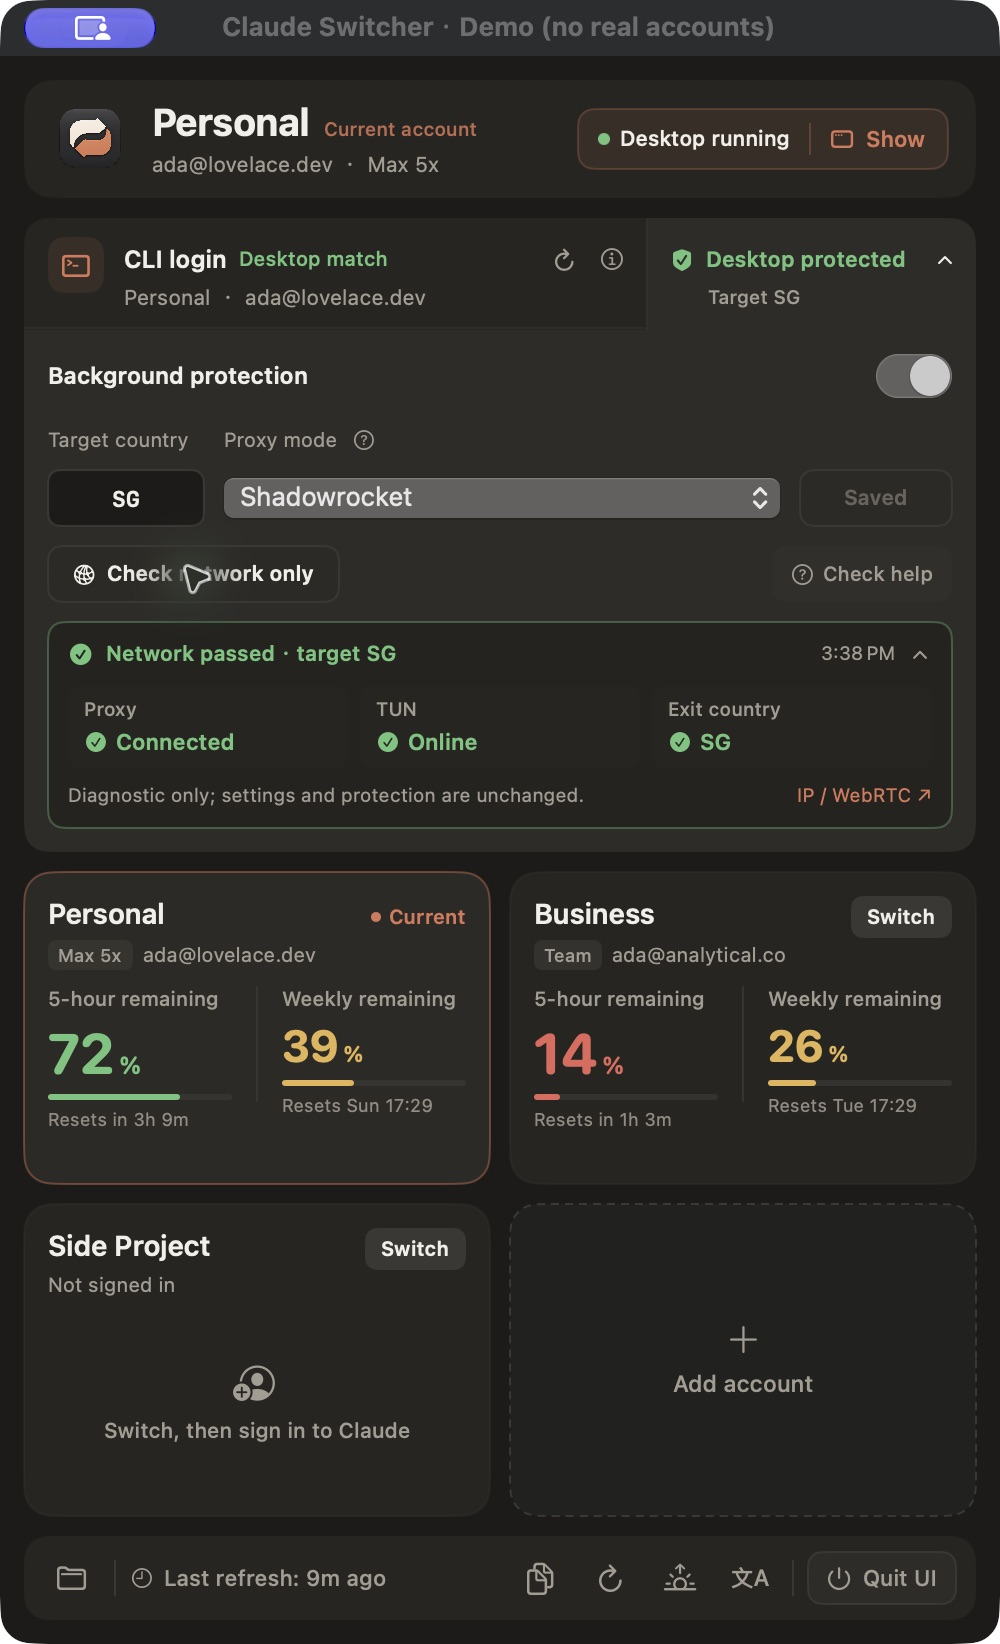
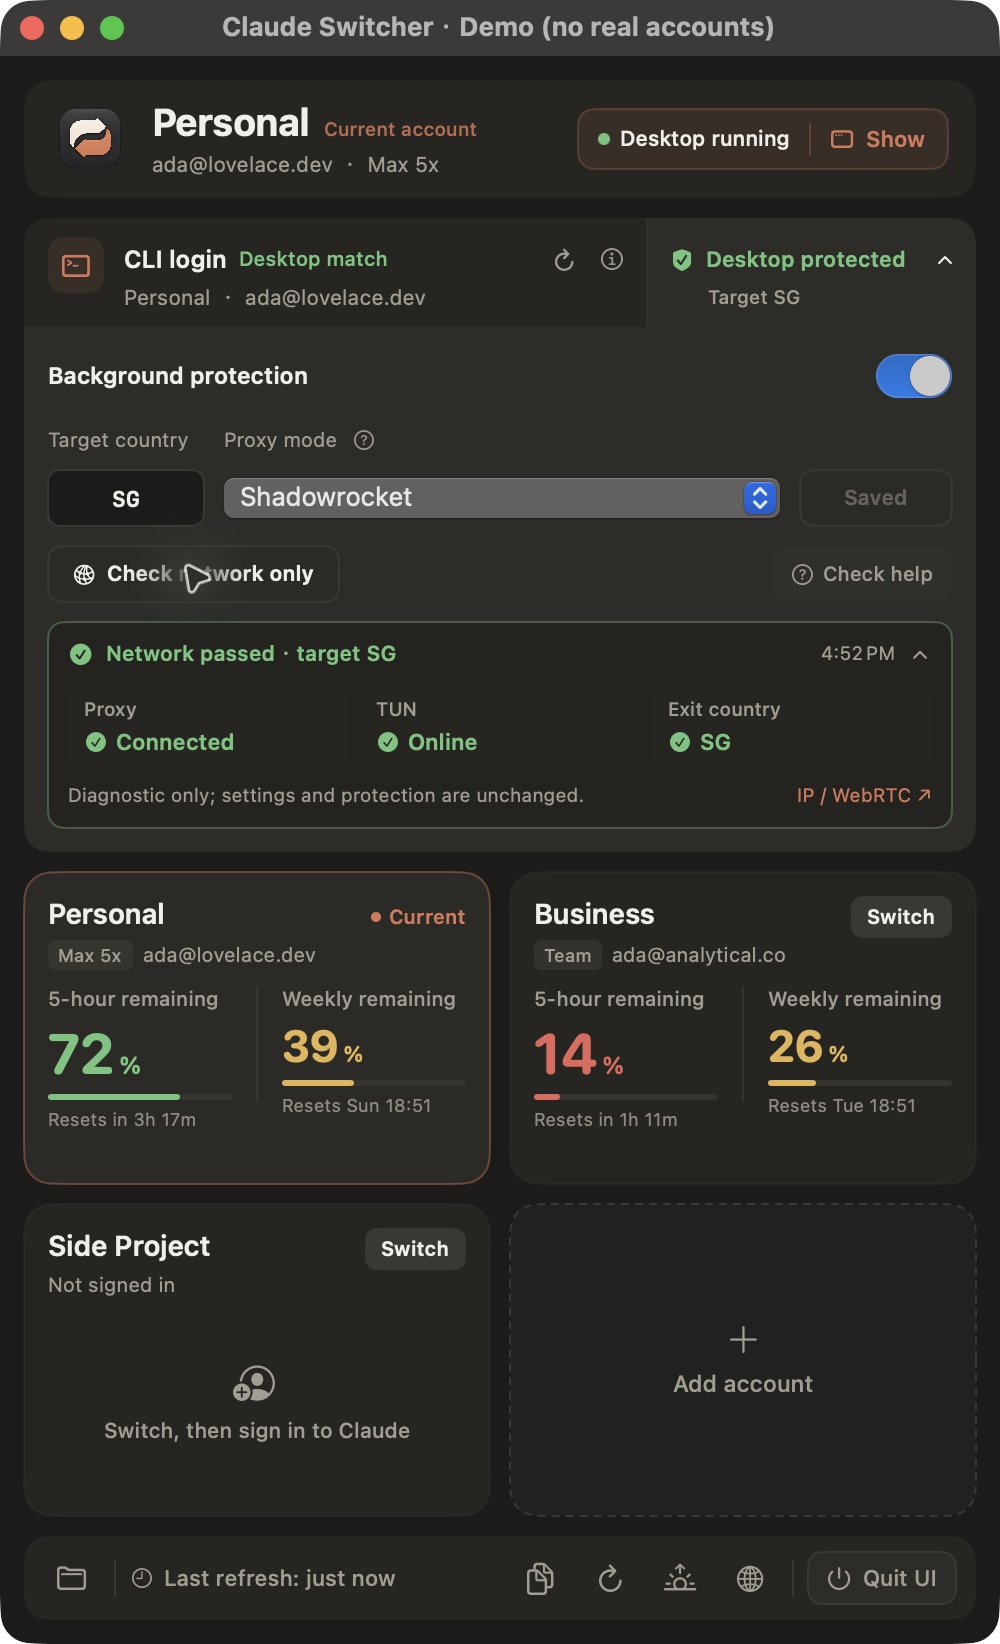
Prepare 1.3.1 with global language and consistent session copying

diff --git a/README.en.md b/README.en.md
@@ -14,16 +14,16 @@ Accounts, usage, sessions and network checks meet in one place.
 [![License](https://img.shields.io/github/license/liuquanqing/claude-switcher)](LICENSE)
 [![macOS checks](https://github.com/liuquanqing/claude-switcher/actions/workflows/ci.yml/badge.svg)](https://github.com/liuquanqing/claude-switcher/actions/workflows/ci.yml)
 
-[![Download macOS DMG](https://img.shields.io/badge/macOS-Download_DMG-C66B4E?style=for-the-badge&logo=apple&logoColor=white)](https://github.com/liuquanqing/claude-switcher/releases/download/v1.3.0/ClaudeSwitcher-1.3.0-arm64.dmg)
+[![Download macOS DMG](https://img.shields.io/badge/macOS-Download_DMG-C66B4E?style=for-the-badge&logo=apple&logoColor=white)](https://github.com/liuquanqing/claude-switcher/releases/download/v1.3.1/ClaudeSwitcher-1.3.1-arm64.dmg)
 
-**1.3.0** · Apple Silicon · macOS 13+
+**1.3.1** · Apple Silicon · macOS 13+
 
 [Download](#download) · [Features](#features) · [Quick start](#quick-start) · [Scope](#scope) · [中文](README.md)
 
 </div>
 
 <p align="center">
-  <img src="docs/images/main.png" width="820" alt="Claude Switcher main panel">
+  <img src="docs/images/main-en.png" width="820" alt="Claude Switcher main panel">
 </p>
 
 > Claude Switcher is an unofficial community project and is not affiliated with Anthropic.<br>
@@ -43,7 +43,7 @@ Claude Switcher keeps that work in the menu bar: see the current account, check 
 | **Desktop + CLI** | Synchronize the saved default OAuth login used by Claude Code. |
 | **Preflight** | Inspect the proxy, TUN interface, Claude domains and expected region before changing accounts. |
 | **Background guard** | Observe explicitly confirmed subscription desktops while the panel is closed. |
-| **Session import** | Import, append, back up, undo and restore supported local desktop session indexes. |
+| **Session copying** | Copy, update, back up, undo and restore supported local desktop session indexes. |
 | **Config awareness** | Detect Magpie and CC Switch configuration sources without taking over their secrets or exit flow. |
 | **Usage at a glance** | Show account usage windows and reset times without adding another dashboard. |
 
@@ -62,30 +62,32 @@ Known failures, unknown states and unresolved conflicts stop the operation befor
 
 ## Screens
 
+Use the globe in the footer to switch the entire app between Chinese and English. Account names, session content, and paths stay as they are.
+
 <table>
 <tr>
 <td align="center" width="50%">
-<img src="docs/images/main.png" alt="Accounts and usage" width="420"><br>
-Accounts and usage
+<img src="docs/images/main-en.png" alt="English main panel" width="420"><br>
+English
 </td>
 <td align="center" width="50%">
-<img src="docs/images/settings.png" alt="Protection settings" width="420"><br>
-Network and protection
+<img src="docs/images/main.png" alt="Chinese main panel" width="420"><br>
+中文
 </td>
 </tr>
 </table>
 
-All account details in these screenshots are fictional.
+All account details in these screenshots are fictional. See [bilingual protection and copy-flow validation](docs/GLOBAL-LANGUAGE.md#验证记录).
 
 ## Download
 
-Version 1.3.0 includes the latest API manager detection and CLI status refinements. The app is now named **Claude Switcher**, without the candidate suffix. See [release notes](docs/releases/1.3.0.md).
+Version 1.3.1 brings app-wide Chinese / English, a consistent Copy sessions flow, and clearer copy results. See [release notes](docs/releases/1.3.1.md).
 
-**[Download Claude Switcher 1.3.0 · macOS DMG](https://github.com/liuquanqing/claude-switcher/releases/download/v1.3.0/ClaudeSwitcher-1.3.0-arm64.dmg)**
+**[Download Claude Switcher 1.3.1 · macOS DMG](https://github.com/liuquanqing/claude-switcher/releases/download/v1.3.1/ClaudeSwitcher-1.3.1-arm64.dmg)**
 
 For **Apple Silicon (M1 or newer) · macOS 13+**. Open the DMG and drag `Claude Switcher.app` to Applications.
 
-[Release notes](https://github.com/liuquanqing/claude-switcher/releases/tag/v1.3.0) · [SHA256 checksums](https://github.com/liuquanqing/claude-switcher/releases/download/v1.3.0/SHA256SUMS) · [All releases](https://github.com/liuquanqing/claude-switcher/releases)
+[Release notes](https://github.com/liuquanqing/claude-switcher/releases/tag/v1.3.1) · [SHA256 checksums](https://github.com/liuquanqing/claude-switcher/releases/download/v1.3.1/SHA256SUMS) · [All releases](https://github.com/liuquanqing/claude-switcher/releases)
 
 The build uses an ad-hoc local signature and is not notarized by Apple. See [the installation guide](docs/INSTALL.md).
 
@@ -104,7 +106,7 @@ Keep only one Claude account manager active. This release and the original Claud
 <details>
 <summary><strong>Does switching an account rewrite cloud conversations?</strong></summary>
 
-No. Claude Switcher changes the active account by rotating local Claude Desktop data directories. Supported local session imports remain local indexes, not a cloud migration.
+No. Claude Switcher changes the active account by rotating local Claude Desktop data directories. Supported local session copies remain local indexes, not a cloud migration.
 
 </details>
 
@@ -135,12 +137,12 @@ This release operates as a **switch gate and periodic observer**, alongside host
 
 - Only the saved default CLI login is synchronized; running tasks are not guaranteed to change identity immediately.
 - API-mode and unknown-mode desktops are not enrolled automatically.
-- Session import supports adapted local desktop indexes, not complete cloud chat migration.
+- Session copying supports adapted local desktop indexes, not complete cloud chat migration.
 - The background guard checks approximately every 10 seconds, so it cannot observe every event between checks.
 
 ## Validation
 
-The public source currently passes 176 Core tests, 121 isolated controller checks, and a release build plus signature verification.
+The public source currently passes 176 Core tests, 147 isolated controller checks, and a release build plus signature verification.
 
 See [VALIDATION.md](docs/VALIDATION.md) and the [GitHub Actions workflow](https://github.com/liuquanqing/claude-switcher/actions/workflows/ci.yml).
 

diff --git a/docs/VALIDATION.md b/docs/VALIDATION.md
@@ -1,6 +1,6 @@
 # 验证范围
 
-本文说明正式版本 `v1.3.0` 已经用什么方式测过、测到了哪里，以及**还没有验证过什么**。通过测试不代表在所有环境下都安全或都能恢复。
+本文说明正式版本 `v1.3.1` 已经用什么方式测过、测到了哪里，以及**还没有验证过什么**。通过测试不代表在所有环境下都安全或都能恢复。
 
 ## 测试原则
 
@@ -13,9 +13,9 @@
 | 套件 | 运行方式 | 公开发布源码副本上的结果 |
 | --- | --- | --- |
 | Core（`SwitcherCoreTests`） | `swift test`（或 `./build.sh test`） | 176 项通过 |
-| 控制器检查（`scripts/fixtures/controller-check.swift`） | `bash scripts/test-controller.sh` | 121 项通过 |
+| 控制器检查（`scripts/fixtures/controller-check.swift`） | `bash scripts/test-controller.sh` | 147 项通过 |
 
-上表来自公开发布源码的本机复跑，Core 176 项、控制器 121 项均通过，release 构建和签名验证通过。云端 CI 结果以 Release 中链接的运行记录为准。`scripts/test-controller.sh` 需要本机装有 `python3`（源码枚举使用系统 Bash，不依赖 ripgrep），中间产物写在 `_qa/` 下。
+上表来自公开发布源码的本机复跑，Core 176 项、控制器 147 项均通过，release 构建和签名验证通过。云端 CI 结果以 Release 中链接的运行记录为准。`scripts/test-controller.sh` 需要本机装有 `python3`（源码枚举使用系统 Bash，不依赖 ripgrep），中间产物写在 `_qa/` 下。
 
 ## 已覆盖的功能边界
 
@@ -39,7 +39,7 @@
 **配置来源识别**
 - 能识别 Magpie、CC Switch 的配置来源；仅根据非敏感配置标记判断来源，不输出或改写密钥。
 
-**会话导入**
+**会话复制**
 - 只处理已适配的桌面索引格式；默认只新增。
 - 同一段会话可以验证时才做增量追加；备份、撤销、恢复都走日志记录。
 - 检测到桌面或切换器仍在运行时拒绝操作。
@@ -48,6 +48,13 @@
 - 已用原生演示窗口检查后台进行中、首次未核验和 API 模式的显示，全部为虚构数据。
 - 桌面档案或模式变化会使旧结论失效；API 下单独核验身份不冒充桌面账号一致。
 - 打开面板时只读本地状态；结果完成后一次性发布；检查过程中不会先降级；当前源码将主动检查入口放在终端状态行旁，读取官方 CLI 本地报告；ⓘ 只保留范围说明和检查时间。
+
+**全局语言与复制界面**
+- 中英切换同步首页、保护设置、已打开的复制窗口、原生菜单和提示。
+- 旧语言偏好迁移使用隔离默认存储验证；无效值不改变当前语言，切换时保留未保存设置与搜索。
+- 使用虚构会话走通选择、确认与取消、复制、备份、撤销及返回；完成摘要保留真实目标及新增/更新数量。
+- 语言不会改变账号、CLI 观察或安全判定；复制指令保留命令、路径、指纹和 receipt 参数。
+- 验证记录与截图见 [全局语言说明](GLOBAL-LANGUAGE.md)。
 
 ## 尚未验证
 
@@ -67,7 +74,7 @@
 
 - 网络探测只是本程序对 `claude.ai`、`api.anthropic.com`、`claude.com` 的观察结果。它**不是防火墙**，也不能证明客户端每一条连接的出口。守卫约每 10 秒检查一次，在两次检查之间发生的变化不会被立即发现。
 - 本工具**不承诺**账号安全、防封号，也不承诺所有失败情况都能恢复。
-- 会话导入**不是**完整的云端聊天迁移，也不能让会话跨 CLI 账号自动接续。
+- 会话复制**不是**完整的云端聊天迁移，也不能让会话跨 CLI 账号自动接续。
 - 切换 CLI 默认登录之后，已经在运行的 CLI 任务不会被强制停止，也不保证会立刻换成新账号。
 
 ## 反馈

diff --git a/docs/releases/1.3.1.md b/docs/releases/1.3.1.md
@@ -1,0 +1,41 @@
+# Claude Switcher 1.3.1
+
+全局中英文，清晰的会话复制。
+
+**[下载 macOS DMG](https://github.com/liuquanqing/claude-switcher/releases/download/v1.3.1/ClaudeSwitcher-1.3.1-arm64.dmg)** · [SHA256 校验](https://github.com/liuquanqing/claude-switcher/releases/download/v1.3.1/SHA256SUMS)
+
+Apple Silicon · macOS 13+
+
+## 本版更新
+
+- **全局中文 / English**：通过底部地球图标切换首页、CLI 状态、保护设置、复制与恢复、确认框和菜单；已打开的复制窗口也会同步更新。
+- **保留工作状态**：语言切换保留搜索和未保存设置，兼容旧版语言偏好。账号名称、会话标题、路径与原始诊断保留原文。
+- **英文排版**：适配现有 500pt 主面板和 680pt 复制窗口，精简较长的状态文字，完整说明保留在帮助中。
+- **复制会话**：统一“复制会话 / Copy sessions”与“开始 / Start”；完成摘要显示实际目标及新增、更新数量，索引共享范围在备份预览中按需查看。
+- **语言扩展准备**：菜单、支持校验与日期区域使用统一语言注册表。目前提供中文和 English；后续语言需补齐翻译、模板和排版验证后再启用。
+
+界面与文案由 Kimi CLI 完成，Codex 负责后端衔接、审查、隔离测试和发布。
+
+## 验证
+
+176 项 Core 测试、147 项控制器隔离检查，以及 release 构建和签名验证通过。中英文应用文案各 266 个键、复制文案各 79 个键，键及插值参数配对检查通过。
+
+原生演示覆盖双向切换、已有窗口同步、搜索保留、全选与半选、确认与取消、新增加更新、备份预览、撤销和返回。复制与恢复仅使用临时虚构会话，没有用真实登录或会话做验收。
+
+[全局语言与界面验证](../GLOBAL-LANGUAGE.md) · [完整验证范围](../VALIDATION.md)
+
+## 安装与升级
+
+打开 DMG，将 **Claude Switcher.app** 拖入“应用程序”。需要保留同名原版时，请先改名或备份。两版共享账号目录，请只使用一个管理器切号。
+
+已开启守卫的用户，整包覆盖或更换应用路径前，请按[安装指南](../INSTALL.md)退出 Claude 桌面并完成守卫交接，避免旧 helper 路径失效。
+
+当前仍使用 **ad-hoc 签名，未经过 Apple 公证**。首次打开被 macOS 阻止时，确认来源和校验值后，在“系统设置 → 隐私与安全性”中仅为本应用选择“仍要打开”。
+
+## 范围与来源
+
+守卫仍约每 10 秒观察一次已明确纳入的订阅桌面；CLI 同步管理默认保存的登录，不会强制结束正在运行的任务。网络层隔离与即时阻断尚未接入本版。会话复制面向已适配的本地索引，不等同于完整云端聊天迁移。
+
+感谢 [Luc Succes](https://github.com/l2succes) 与 [l2succes/claude-switcher](https://github.com/l2succes/claude-switcher) 提供项目基础。原作者 MIT 声明保留，其他参考见 [CREDITS.md](../../CREDITS.md)。本项目与 Anthropic 没有隶属关系。
+
+版本 `1.3.1`，内部构建 `20261030.14.0`。准确源码提交与校验值见附件 `RELEASE-MANIFEST.json` 和 `SHA256SUMS`。旧版本的标签与附件保留。

diff --git a/docs/INSTALL.md b/docs/INSTALL.md
@@ -2,7 +2,7 @@
 
 Claude Switcher 常驻菜单栏，安装后不会自动接管 Claude。完成账号设置，或主动开启保护后，才会参与相应的切换与检查流程。
 
-适用版本：`v1.3.0`（正式版）。
+适用版本：`v1.3.1`（正式版）。
 
 ## 系统要求
 
@@ -11,7 +11,7 @@ Claude Switcher 常驻菜单栏，安装后不会自动接管 Claude。完成账
 
 ## 1. 下载并校验
 
-推荐直接[下载 macOS DMG](https://github.com/liuquanqing/claude-switcher/releases/download/v1.3.0/ClaudeSwitcher-1.3.0-arm64.dmg)，打开后将应用拖入“应用程序”。也可以在[当前版本的 Release 页面](https://github.com/liuquanqing/claude-switcher/releases/tag/v1.3.0)下载：
+推荐直接[下载 macOS DMG](https://github.com/liuquanqing/claude-switcher/releases/download/v1.3.1/ClaudeSwitcher-1.3.1-arm64.dmg)，打开后将应用拖入“应用程序”。也可以在[当前版本的 Release 页面](https://github.com/liuquanqing/claude-switcher/releases/tag/v1.3.1)下载：
 
 - `.dmg` 或 `.zip`（二选一）
 - `SHA256SUMS`
@@ -48,7 +48,7 @@ cat SHA256SUMS
 
 [Apple 的首次打开说明](https://support.apple.com/102445)。请保留 Gatekeeper，不对整个下载目录或“应用程序”批量移除隔离属性。如果提示文件损坏或恶意软件，请先停止打开并重新核对来源与校验值。
 
-签名、公证的准备要求与本版 `1.3.0` 的命名见 [macOS 分发说明](MACOS-DISTRIBUTION.md)。正式版仍采用 ad-hoc 签名，未经过 Apple 公证。
+签名、公证的准备要求与本版 `1.3.1` 的命名见 [macOS 分发说明](MACOS-DISTRIBUTION.md)。正式版仍采用 ad-hoc 签名，未经过 Apple 公证。
 
 ## 4. 开启保护（可选）
 
@@ -76,7 +76,7 @@ cat SHA256SUMS
 
 ## 与原版共存或迁移
 
-应用名称改变不会迁移账号数据。若从 RC6 升级且已启用守卫，请先在旧版关闭保护，退出切换器与 Claude Desktop，安装后再按新路径启用保护；不要在守卫仍引用旧 helper 时移走旧应用。
+应用名称改变不会迁移账号数据。若已启用守卫，整包覆盖或更换应用路径前，请先在旧版关闭保护，退出切换器与 Claude Desktop，安装后再启用保护；不要在守卫仍引用旧 helper 时移走旧应用。
 
 - 安装或升级之前，建议先退出原版 Claude Switcher 和 Claude Desktop。
 - 如果原版也开着保护或守卫，先在原版里关掉，避免两套守卫同时管理同一个桌面。

diff --git a/docs/MACOS-DISTRIBUTION.md b/docs/MACOS-DISTRIBUTION.md
@@ -1,19 +1,19 @@
 # macOS 发布、签名与公证
 
-核对日期：2026-10-30。当前正式包为 `v1.3.0`，使用 ad-hoc 签名，尚未公证。本文是 Developer ID 分发准备说明，不表示现有附件已重新签名或通过 Apple 公证。
+核对日期：2026-10-30。当前正式包为 `v1.3.1`，使用 ad-hoc 签名，尚未公证。本文是 Developer ID 分发准备说明，不表示现有附件已重新签名或通过 Apple 公证。
 
 ## 版本命名
 
-本次正式发布统一使用 `1.3.0`：
+本次正式发布统一使用 `1.3.1`：
 
 | 位置 | 名称 |
 | --- | --- |
-| Release 标题 | Claude Switcher 1.3.0 |
-| Git 标签 | `v1.3.0` |
-| DMG | `ClaudeSwitcher-1.3.0-arm64.dmg` |
-| ZIP | `ClaudeSwitcher-1.3.0-arm64.zip` |
+| Release 标题 | Claude Switcher 1.3.1 |
+| Git 标签 | `v1.3.1` |
+| DMG | `ClaudeSwitcher-1.3.1-arm64.dmg` |
+| ZIP | `ClaudeSwitcher-1.3.1-arm64.zip` |
 
-新标签必须绑定新包的实际构建源码，校验文件与构建清单同时生成。保留已发布的 `v1.3.0-local.6` 与 `v1.3.0-rc.6`；不改名旧附件或移动旧标签。正式版本号不代表已通过 Apple 公证；独立实验分支不会自动进入安装包。Apple bundle 的版本字段与对外发布标识在构建阶段分别校验。
+新标签必须绑定新包的实际构建源码，校验文件与构建清单同时生成。保留已发布的 `v1.3.0`、`v1.3.0-local.6` 与 `v1.3.0-rc.6`；不改名旧附件或移动旧标签。正式版本号不代表已通过 Apple 公证；独立实验分支不会自动进入安装包。Apple bundle 的版本字段与对外发布标识在构建阶段分别校验。
 
 ## 两种安装体验
 

diff --git a/docs/GLOBAL-LANGUAGE.md b/docs/GLOBAL-LANGUAGE.md
@@ -46,7 +46,7 @@
 
 ## 验证记录
 
-界面与文案由 Kimi CLI 完成，Codex 负责独立审查、隔离测试与原生交互复核。本轮保留了主线 `c70d903` 的“复制会话 / Copy sessions”命名、真实目标及新增/更新分类摘要。已按用户授权更新本机至 1.3.0（构建 `20261030.13.2`），GitHub 现有 Release 附件未改动。
+界面与文案由 Kimi CLI 完成，Codex 负责独立审查、隔离测试与原生交互复核。本轮保留了主线 `c70d903` 的“复制会话 / Copy sessions”命名、真实目标及新增/更新分类摘要。开发阶段已按用户授权更新本机至 1.3.0（构建 `20261030.13.2`）。本轮能力纳入 1.3.1 发布，旧 1.3.0 附件保留。
 
 - 176 项 Core 测试、147 项控制器隔离检查通过，release 构建与 ad-hoc 签名验证通过。
 - 中英文应用文案各 266 个键、复制文案各 79 个键；键集合、重复键及插值参数检查通过。

diff --git a/docs/COPY-SESSIONS.md b/docs/COPY-SESSIONS.md
@@ -4,4 +4,4 @@
 
 完成摘要按本次记录区分新增与更新，显示真实目标名称。范围说明在查看备份中按需展示：“会话内容共享，仅复制索引，不改动原会话。”
 
-前端文案由 Kimi 修改，使用临时虚构索引检查中英文新增完成结果。没有使用真实账号或会话作为夹具。当前源码构建 1.3.0（20261030.13.1），已有 1.3.0 Release 附件不随源码提交自动变化。
+前端文案由 Kimi 修改，使用临时虚构索引检查中英文新增完成结果。没有使用真实账号或会话作为夹具。这轮命名改动首次用于源码构建 1.3.0（20261030.13.1），现与全局中英文一并纳入 1.3.1；旧 1.3.0 Release 附件保留。
